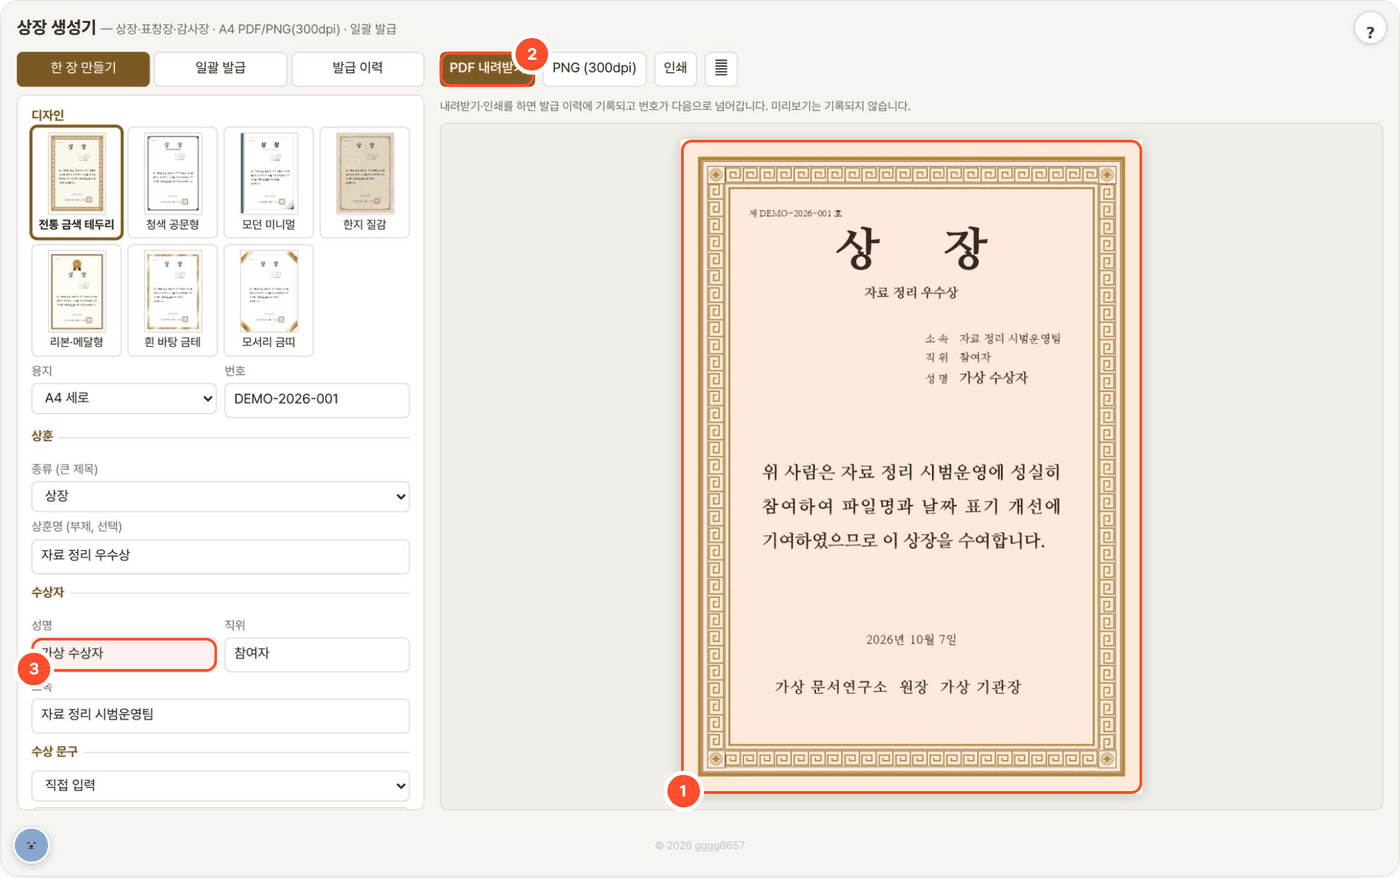
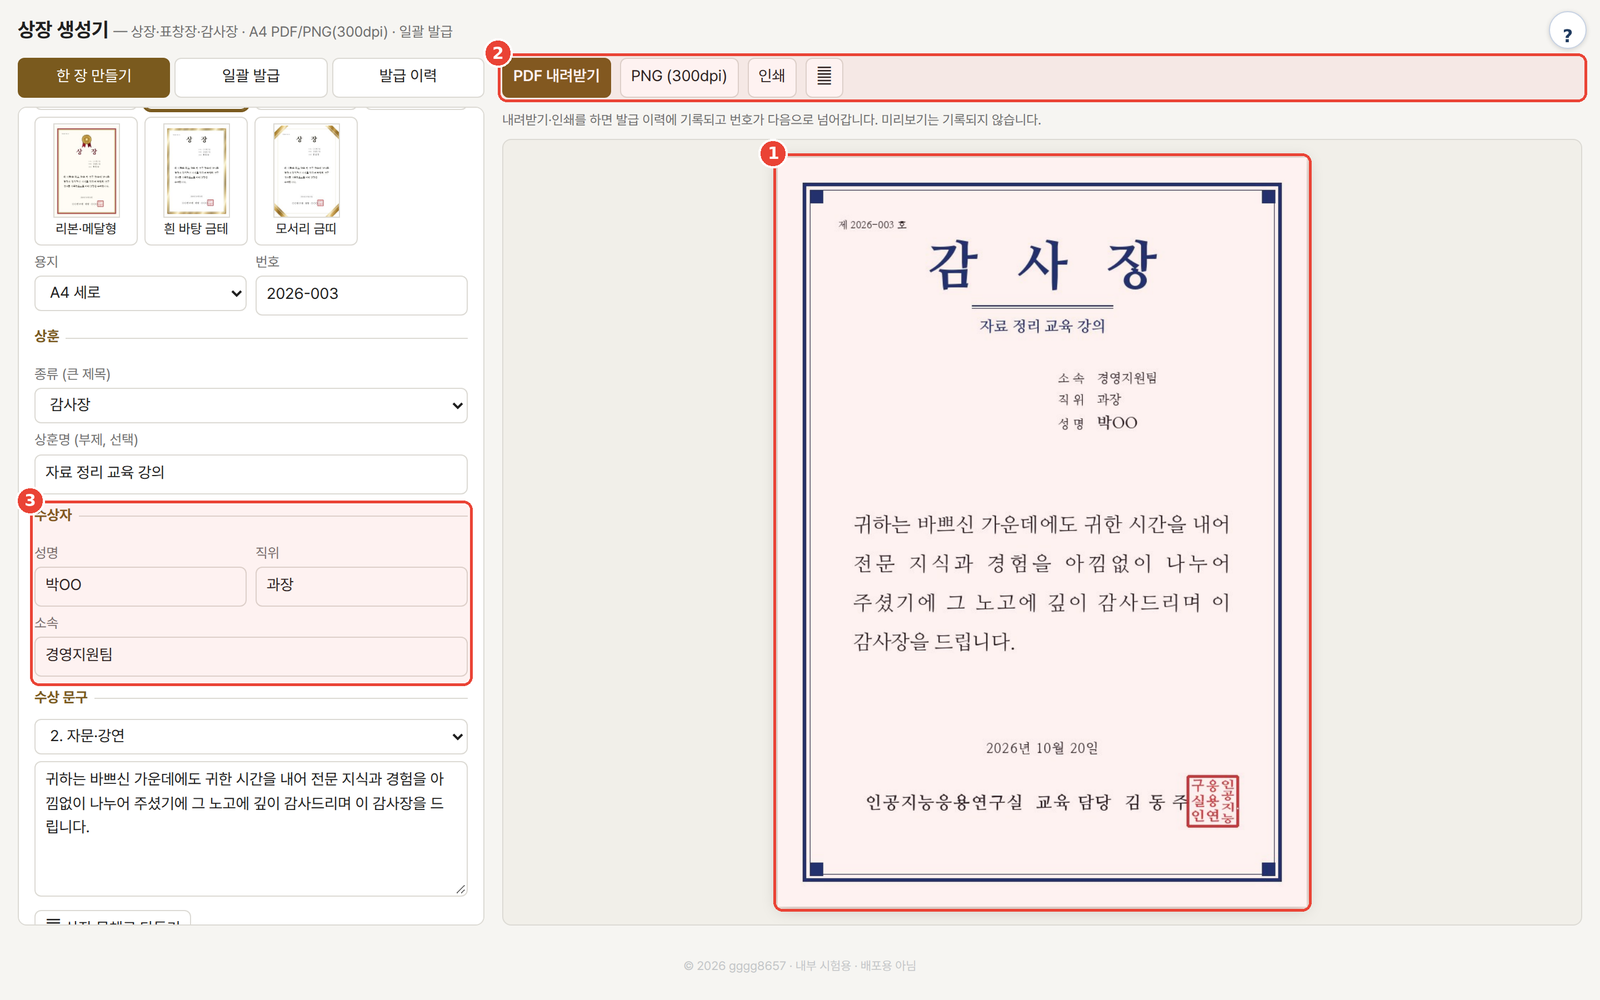
README: 사용 화면·예시를 새 실행으로 다시 찍음 (예시 작성자 김동주)

diff --git a/README.md b/README.md
@@ -24,20 +24,20 @@
 
 ## 예시
 
-가상 기관·수상자로 실제 발급한 사례입니다.
+가상 수상자로 실제 발급한 사례입니다(위 화면).
 
 입력:
 
 ```text
-수상자: 가상 수상자 · 자료 정리 시범운영팀
-상훈:   자료 정리 우수상
-번호:   DEMO-2026-001
-기관:   가상 문서연구소
-문구:   위 사람은 자료 정리 시범운영에 성실히 참여하여 파일명과 날짜 표기 개선에
-        기여하였으므로 이 상장을 수여합니다.
+종류:   감사장 · 자료 정리 교육 강의
+받는 분: 경영지원팀 과장 박OO
+번호:   2026-003
+기관:   인공지능응용연구실 · 수여자: 교육 담당 김동주 · 직인 자동 생성(사각)
+문구:   귀하는 바쁘신 가운데에도 귀한 시간을 내어 전문 지식과 경험을 아낌없이 나누어
+        주셨기에 그 노고에 깊이 감사드리며 이 감사장을 드립니다.   (기본 문구 "자문·강연")
 ```
 
-출력: `상장_가상_수상자.pdf` — A4 세로 · 전통 금색 · 직인 없음 · 수여일 2026년 10월 7일 (위 화면의 미리보기와 같은 그림)
+출력: `감사장_박OO.pdf` — A4 세로 · 청색 공문형 · 수여일 2026년 10월 20일 (위 화면의 미리보기와 같은 그림)
 
 > PDF는 300dpi 이미지로 만든 문서라 글자 선택·검색이 되지 않습니다. 인쇄할 때는 배율을 실제 크기(100%)로 맞추세요.
 
